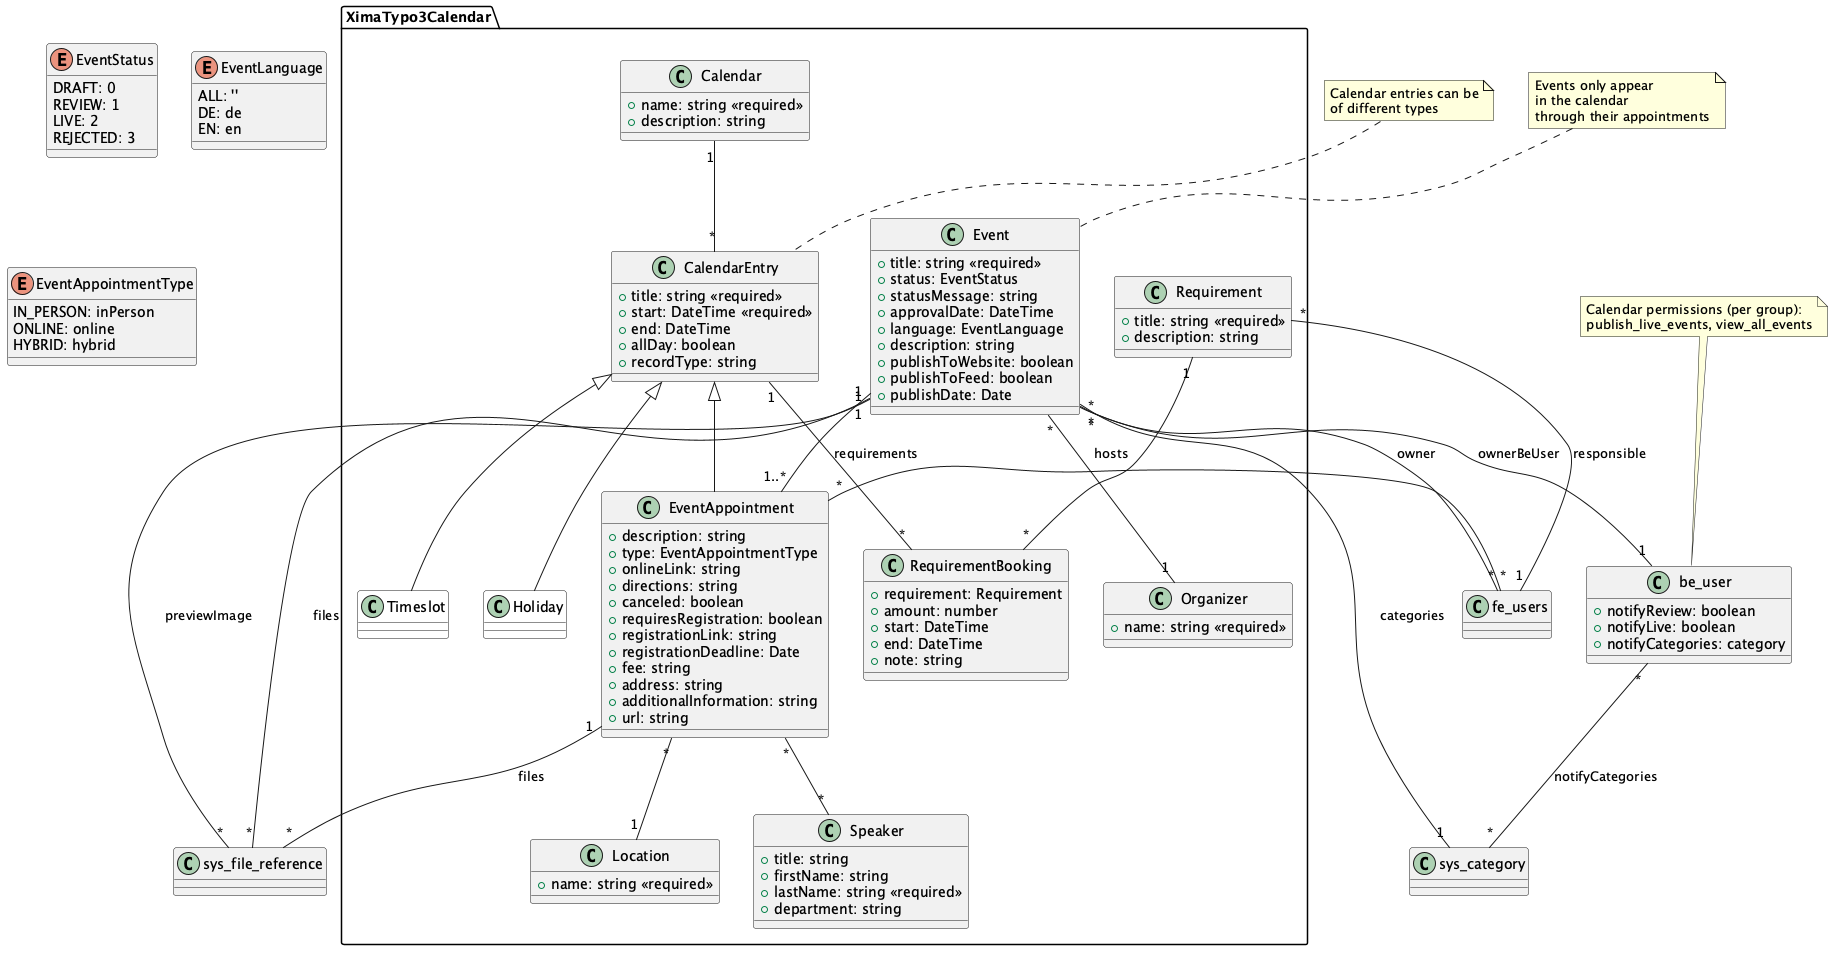
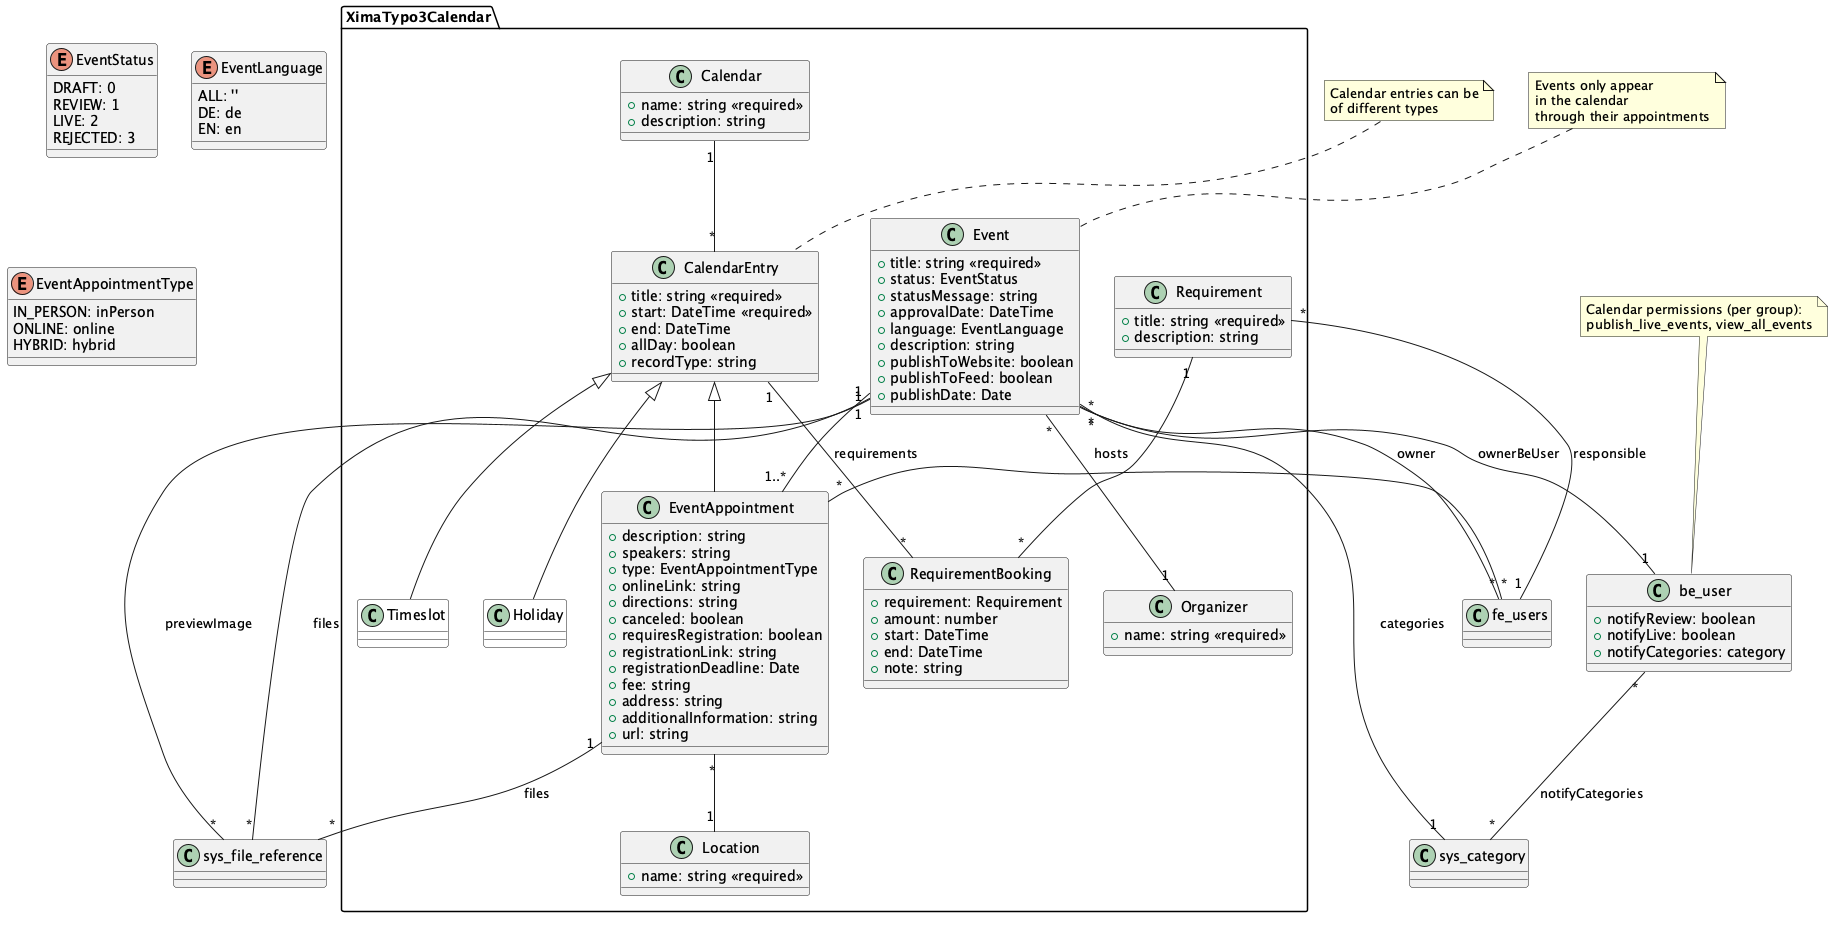
fix: remove speaker record type and store speakers as appointment text

diff --git a/Configuration/Icons.php b/Configuration/Icons.php
@@ -41,10 +41,6 @@ return [
         'provider' => \TYPO3\CMS\Core\Imaging\IconProvider\SvgIconProvider::class,
         'source' => 'EXT:xima_typo3_calendar/Resources/Public/Icons/recordtype-requirement-booking.svg',
     ],
-    'tx-ximatypo3calendar-speaker' => [
-        'provider' => \TYPO3\CMS\Core\Imaging\IconProvider\SvgIconProvider::class,
-        'source' => 'EXT:xima_typo3_calendar/Resources/Public/Icons/recordtype-speaker.svg',
-    ],
     'tx-ximatypo3calendar-plugin-event-list' => [
         'provider' => \TYPO3\CMS\Core\Imaging\IconProvider\SvgIconProvider::class,
         'source' => 'EXT:xima_typo3_calendar/Resources/Public/Icons/recordtype-calendar.svg',

diff --git a/Tests/Functional/Controller/Backend/EventsControllerTest.php b/Tests/Functional/Controller/Backend/EventsControllerTest.php
@@ -274,7 +274,7 @@ final class EventsControllerTest extends AbstractCalendarFunctionalTestCase
         self::assertContains(self::TABLE_CALENDAR, $tableNames);
         self::assertContains(self::TABLE_LOCATION, $tableNames);
         self::assertContains('tx_ximatypo3calendar_domain_model_organizer', $tableNames);
-        self::assertContains('tx_ximatypo3calendar_domain_model_speaker', $tableNames);
+        self::assertNotContains('tx_ximatypo3calendar_domain_model_speaker', $tableNames);
     }
 
     /**

diff --git a/README.md b/README.md
@@ -58,7 +58,8 @@ Then, per site:
 ## Features
 
 - **Structured event model** — events, their appointments (dates/occurrences), organizers,
-  speakers, locations, and optional requirements, each as a first-class record type.
+  locations, and optional requirements as first-class record types; speakers are captured as
+  free text on each appointment.
 - **Backend modules** — a record-list module for the calendar records and an interactive
   calendar overview.
 - **Frontend plugins** — event list and combined event/appointment detail view, with clean
@@ -82,7 +83,6 @@ Then, per site:
 | Event Appointment   | One dated occurrence: date/time, location, appointment type   | `tx_ximatypo3calendar_domain_model_entry`              |
 | Organizer           | Event organizer                                               | `tx_ximatypo3calendar_domain_model_organizer`          |
 | Location            | Event location                                                | `tx_ximatypo3calendar_domain_model_location`           |
-| Speaker             | Speaker/presenter                                             | `tx_ximatypo3calendar_domain_model_speaker`            |
 | Requirement         | Requirement for an appointment (speaker desk, beamer)         | `tx_ximatypo3calendar_domain_model_requirement`        |
 | Requirement Booking | Booking of a requirement for a given appointment              | `tx_ximatypo3calendar_domain_model_requirementbooking` |
 
@@ -90,7 +90,7 @@ An **Event** has a status (`DRAFT`, `REVIEW`, `LIVE`, `REJECTED`), an owning fro
 a backend owner (`owner_be_user`, set automatically on creation). Registration fields
 (`requires_registration`, `registration_link`, `registration_deadline`, `fee`) live on the
 event. An **Event Appointment** is one dated occurrence; its type is `inPerson`, `online`, or
-`hybrid`. Requirements are only relevant with the
+`hybrid`, and its speakers are stored as free text. Requirements are only relevant with the
 [requirements feature](#requirements-management) enabled.
 
 ![Class Diagram](Documentation/Images/calendar.png)
@@ -100,7 +100,7 @@ event. An **Event Appointment** is one dated occurrence; its type is `inPerson`,
 The extension registers a **Calendar** module group with two modules:
 
 - **Events** — a record list (built on `xima/xima-typo3-recordlist`) of the calendar record
-  types: calendar, event, appointment, organizer, speaker, location, and — with the
+  types: calendar, event, appointment, organizer, location, and — with the
   requirements feature enabled — requirement. Records are collected from all pages whose page
   module is set to `events`, including one level of subpages. Requirement bookings are edited
   inline on the appointment.
